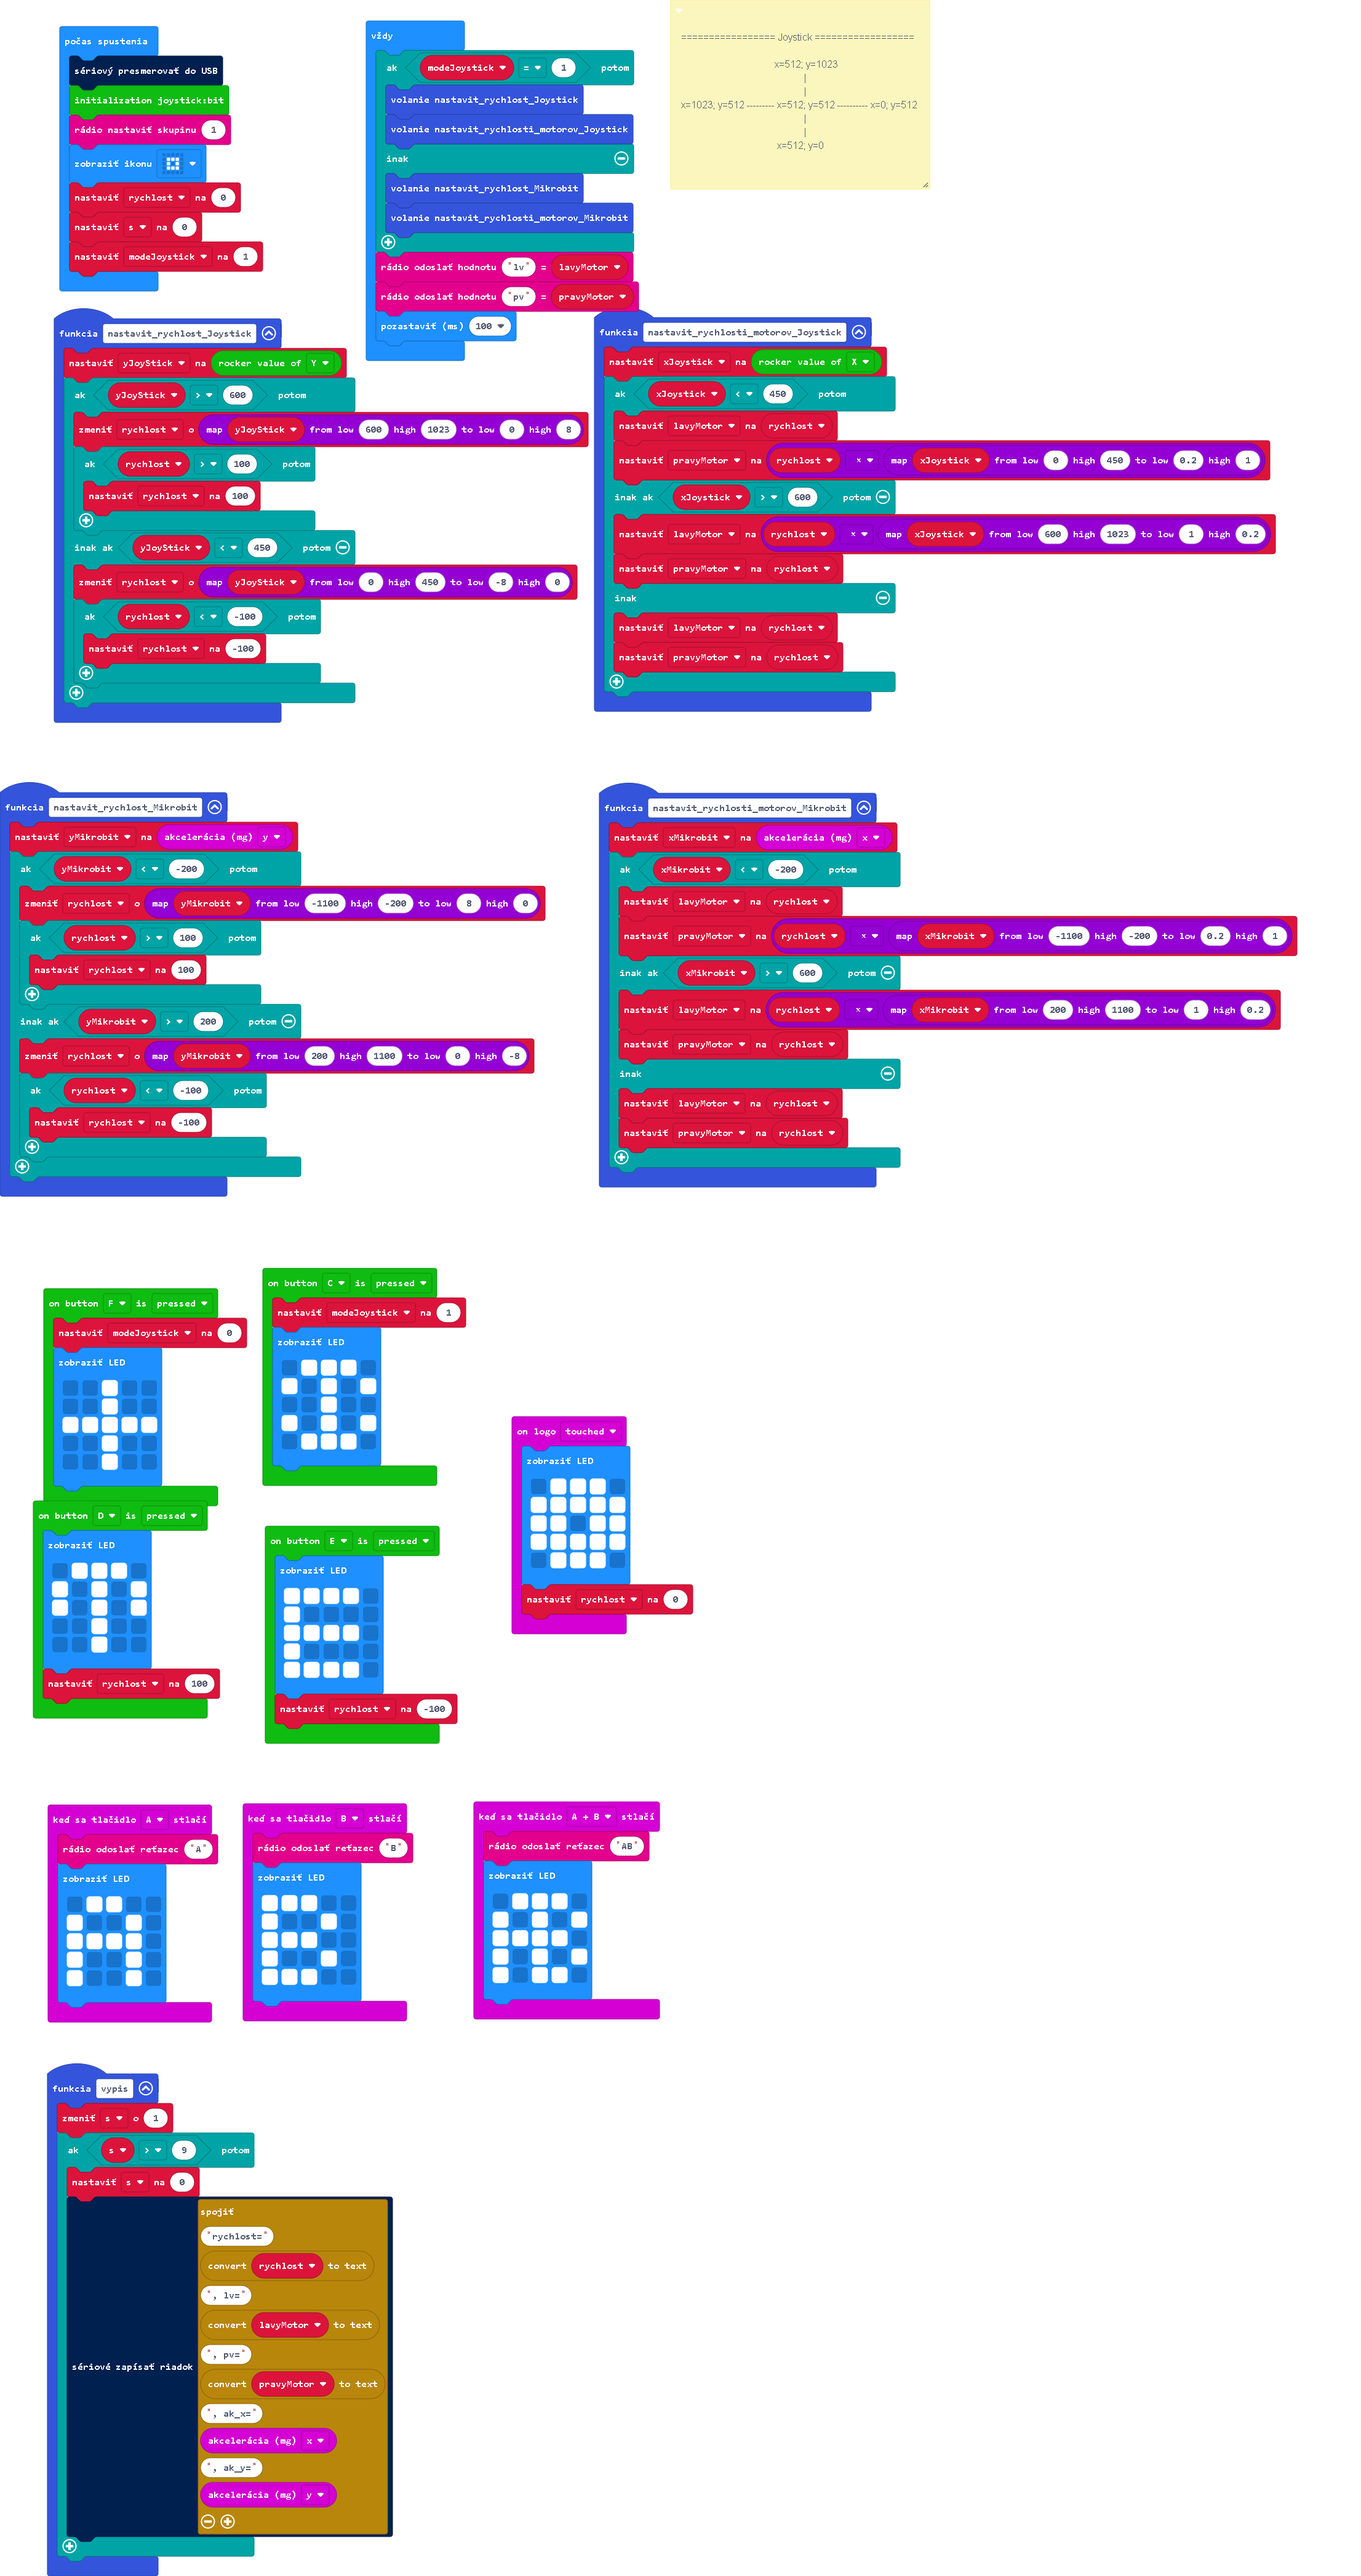
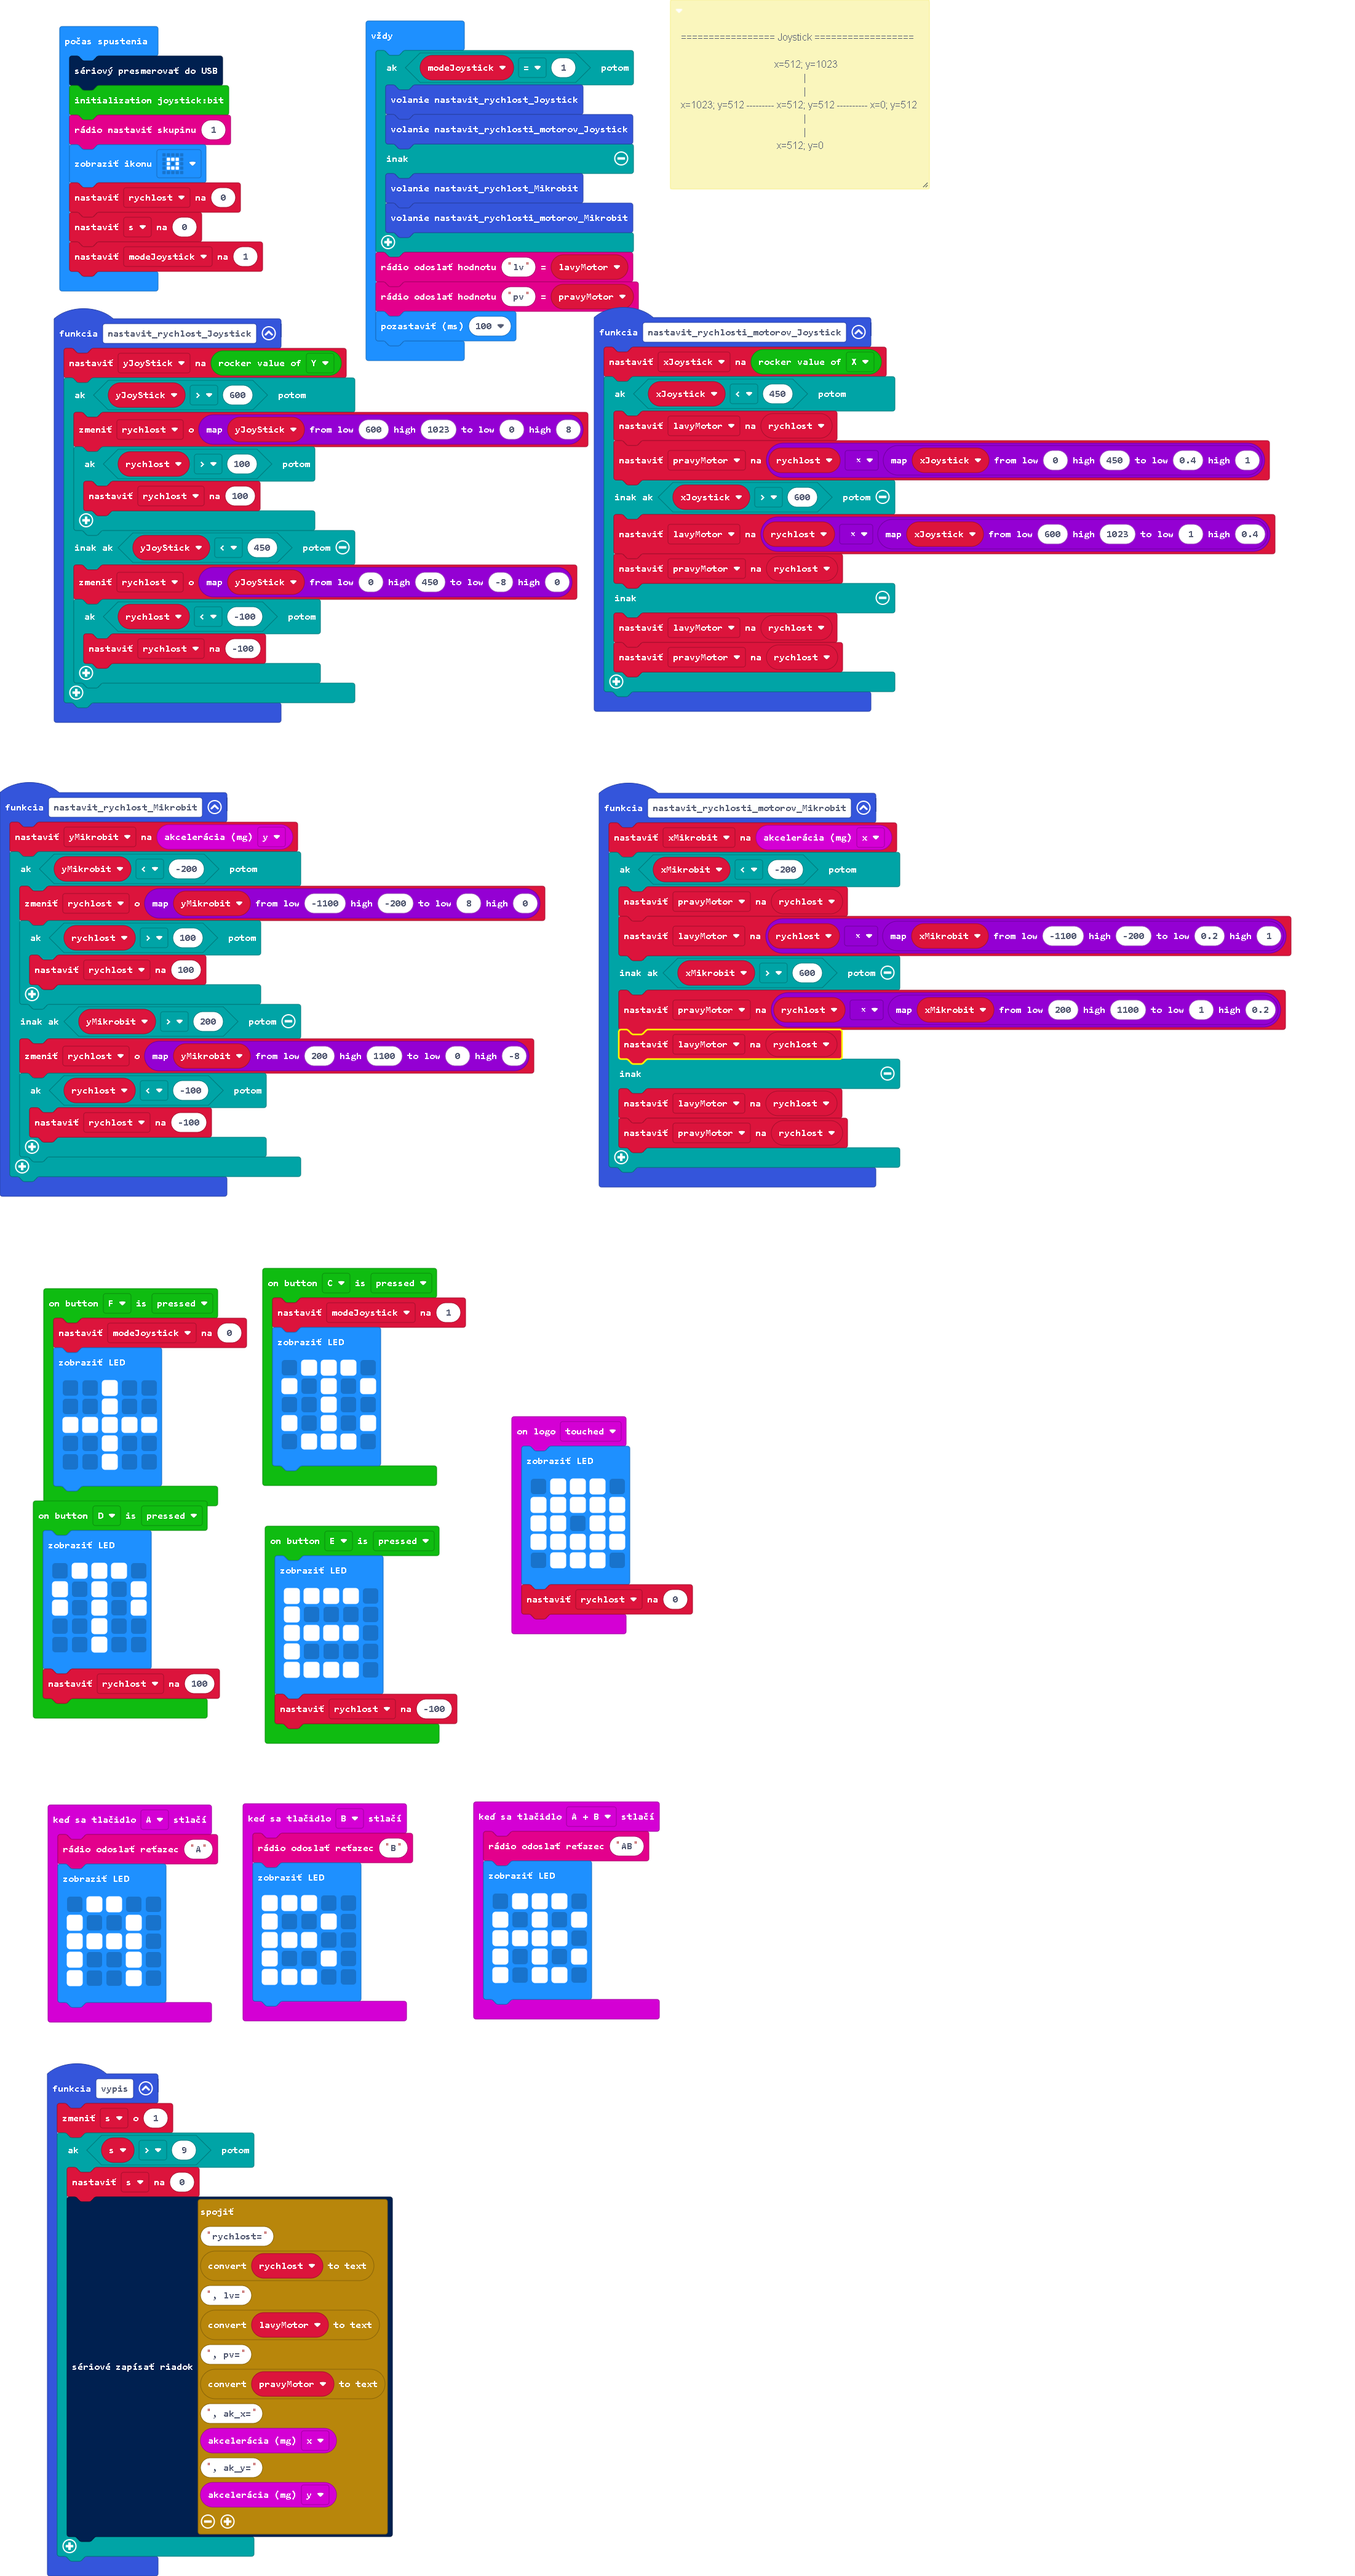
Aktualizovať main.blocks, main.ts

diff --git a/main.ts b/main.ts
@@ -86,11 +86,11 @@ input.onButtonPressed(Button.B, function () {
 function nastavit_rychlosti_motorov_Mikrobit () {
     xMikrobit = input.acceleration(Dimension.X)
     if (xMikrobit < -200) {
-        lavyMotor = rychlost
-        pravyMotor = rychlost * Math.map(xMikrobit, -1100, -200, 0.2, 1)
-    } else if (xMikrobit > 600) {
-        lavyMotor = rychlost * Math.map(xMikrobit, 200, 1100, 1, 0.2)
         pravyMotor = rychlost
+        lavyMotor = rychlost * Math.map(xMikrobit, -1100, -200, 0.2, 1)
+    } else if (xMikrobit > 600) {
+        pravyMotor = rychlost * Math.map(xMikrobit, 200, 1100, 1, 0.2)
+        lavyMotor = rychlost
     } else {
         lavyMotor = rychlost
         pravyMotor = rychlost
@@ -100,9 +100,9 @@ function nastavit_rychlosti_motorov_Joystick () {
     xJoystick = joystickbit.getRockerValue(joystickbit.rockerType.X)
     if (xJoystick < 450) {
         lavyMotor = rychlost
-        pravyMotor = rychlost * Math.map(xJoystick, 0, 450, 0.2, 1)
+        pravyMotor = rychlost * Math.map(xJoystick, 0, 450, 0.4, 1)
     } else if (xJoystick > 600) {
-        lavyMotor = rychlost * Math.map(xJoystick, 600, 1023, 1, 0.2)
+        lavyMotor = rychlost * Math.map(xJoystick, 600, 1023, 1, 0.4)
         pravyMotor = rychlost
     } else {
         lavyMotor = rychlost
